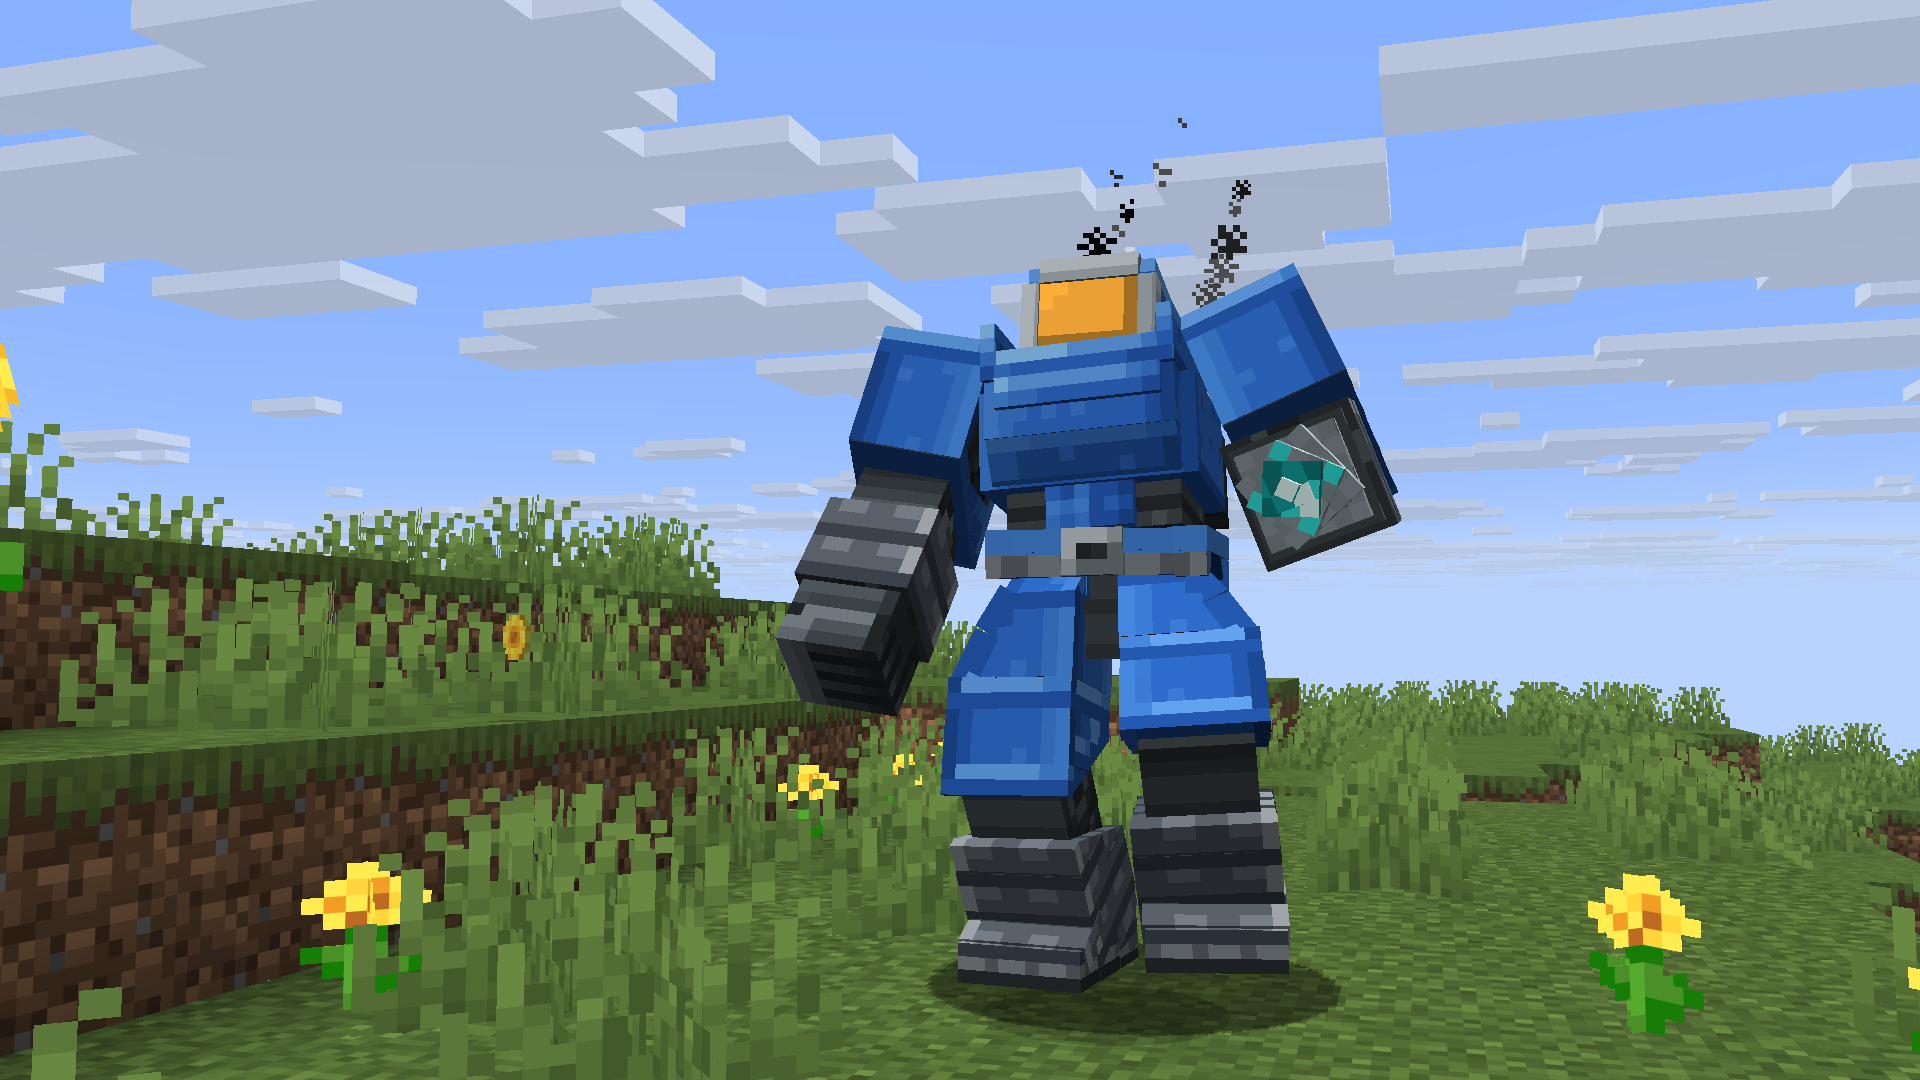
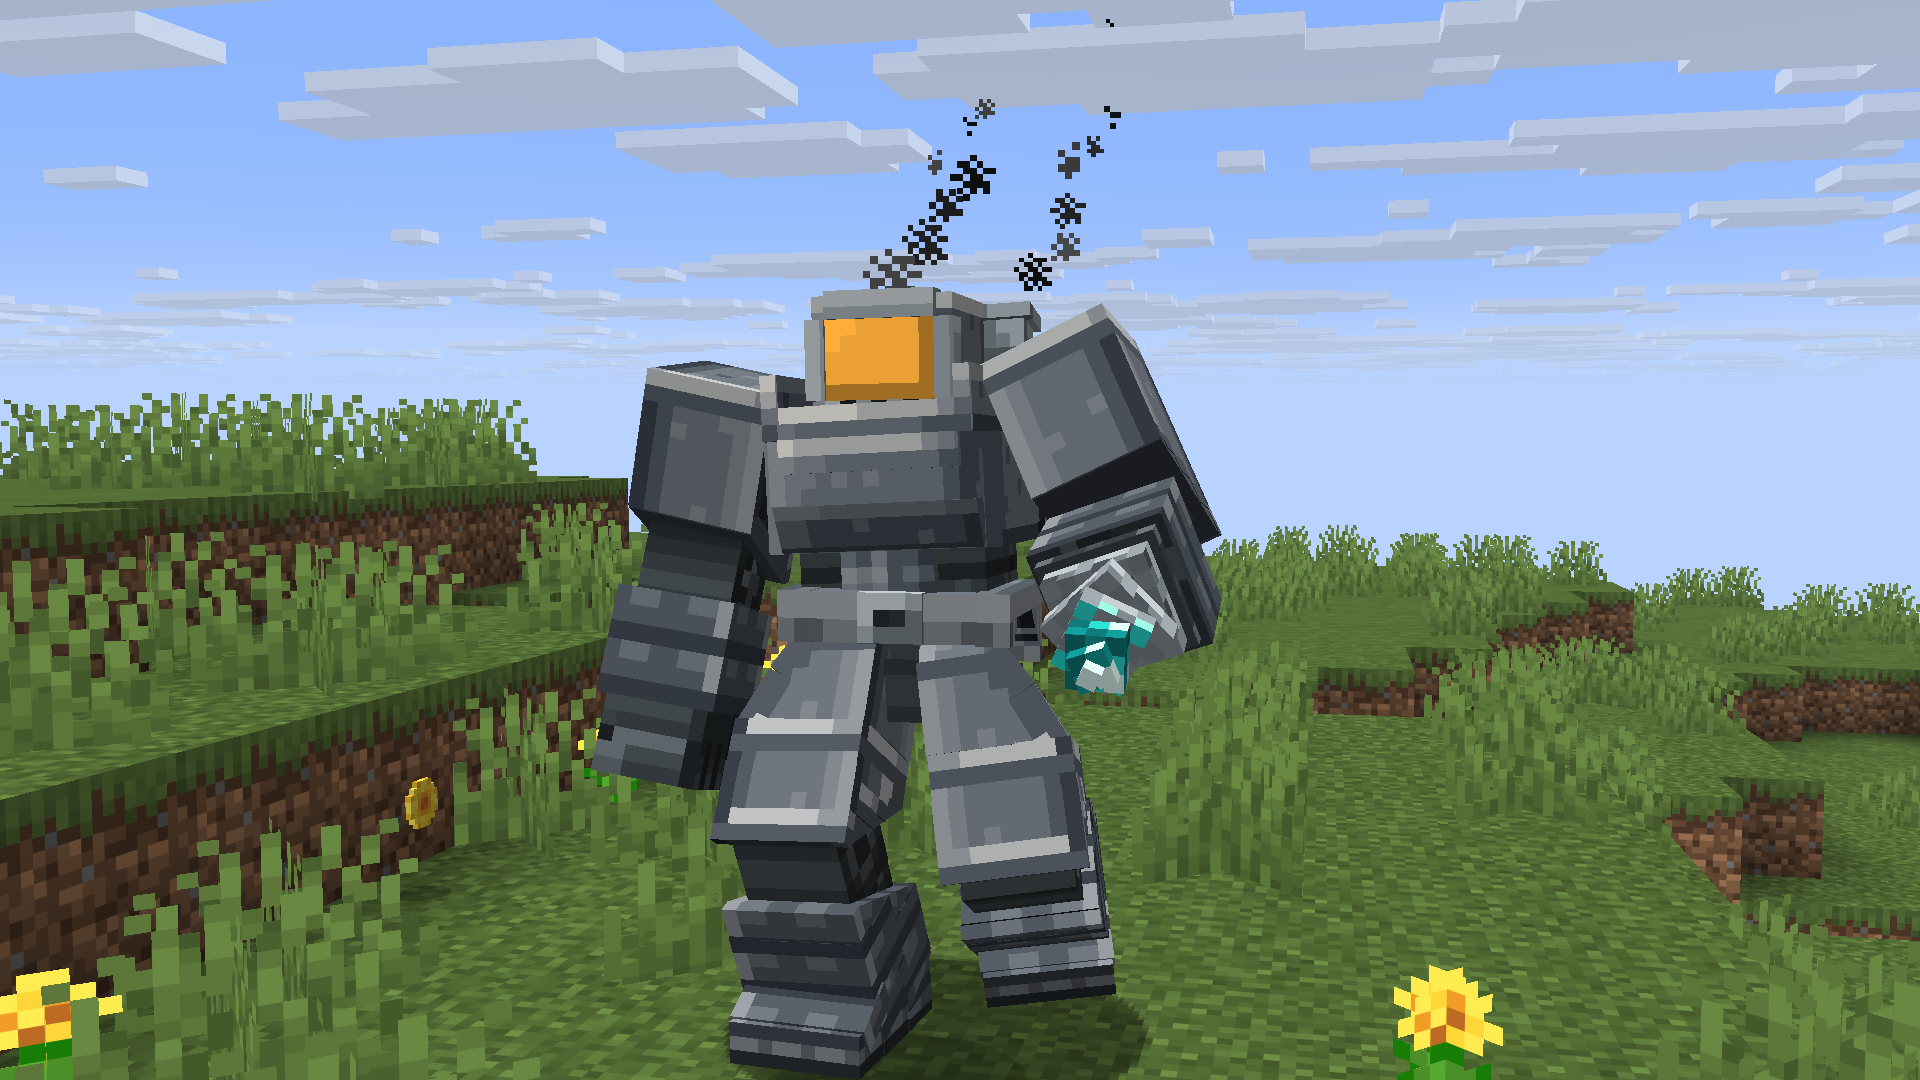
Gallery 1: bare steel suit with a drill, head-height camera, level view

diff --git a/src/main/java/dev/ajaczero/powerarmor/client/dev/ShowcaseScene.java b/src/main/java/dev/ajaczero/powerarmor/client/dev/ShowcaseScene.java
@@ -172,7 +172,7 @@ public final class ShowcaseScene {
                 // set with a null spot to search (findSpot), then copy the place from run/showcase.csv.
                 // a sunflower-plains hilltop: a mountain and the sea on the left, a village ahead
                 case 0 -> moveTo(mc, "walk", Biomes.SUNFLOWER_PLAINS, 6000, pin(739, 116, -659, 0),
-                        new Loadout(DyeColor.BLUE, ModItems.FIREBOX.get(), ModItems.DRILL.get()));
+                        new Loadout(null, ModItems.FIREBOX.get(), ModItems.DRILL.get()));
                 // plains below a village, looking west into the sunset (yaw 90 looks -X)
                 case 1 -> moveTo(mc, "dusk", Biomes.PLAINS, DUSK, pin(595, 70, -812, 90),
                         new Loadout(DyeColor.RED, ModItems.FIREBOX.get(), ModItems.CHAINGUN.get()));
@@ -219,14 +219,15 @@ public final class ShowcaseScene {
     private static void walk(Minecraft mc, int k) {
         var o = mc.options;
         // F5's front view turns the pilot's view round: looking up puts its camera higher, looking down at the suit
-        if (k == -SETTLE) { o.setCameraType(CameraType.THIRD_PERSON_FRONT); DevUtil.hideGui(mc, true); yaw = setYaw; pitch = -15; levelPath(mc); }
+        if (k == -SETTLE) { o.setCameraType(CameraType.THIRD_PERSON_FRONT); DevUtil.hideGui(mc, true); yaw = setYaw; pitch = 0; levelPath(mc); }
         if (k == 0) walk = true;
         if (k >= 8 && k <= 28 && k % 4 == 0) shot(mc, "front_walk", k);
         // a still camera standing in the suit's path, as a friend would: the suit walks up to it. (A scripted camera
         // stops the client sending the pilot's moves to the server; the client still walks the suit, for a few seconds.)
-        // close and low with a narrow lens, so the suit fills the frame (the lens is put back for the cockpit shots)
-        if (k == 30) { pathCamera(mc, 7.0, 1.4); mc.options.fov().set(40); }
-        if (k >= 34 && k <= 50 && k % 4 == 0) shot(mc, "front_close", k);
+        // head height, a little to the tool side, a narrow lens: the suit fills the frame and looks level, not up at the sky
+        // (a low camera tilted the visor up). Bare steel for this set.
+        if (k == 30) { angleCamera(mc, 6.5, 1.5, 2.4, 2.0); mc.options.fov().set(38); }
+        if (k >= 32 && k <= 38 && k % 2 == 0) shot(mc, "front_close", k);
         if (k == 52) { o.fov().set(fov); mc.setCameraEntity(mc.player); o.setCameraType(CameraType.FIRST_PERSON); DevUtil.hideGui(mc, false); yaw = setYaw - 25; pitch = 3; } // the mountain and the sea
         if (k >= 62 && k <= 78 && k % 4 == 0) shot(mc, "cockpit", k);
         if (k == 80) { yaw = setYaw; o.setCameraType(CameraType.THIRD_PERSON_BACK); DevUtil.hideGui(mc, true); pitch = 12; }
@@ -959,6 +960,16 @@ public final class ShowcaseScene {
                 player.startRiding(suit, true, true);
             }
         });
+    }
+
+    /** A still camera {@code ahead} blocks in front of the suit, {@code side} to its tool side, {@code up} high, looking at a point {@code lookY} up the suit. */
+    private static void angleCamera(Minecraft mc, double ahead, double side, double up, double lookY) {
+        if (!(mc.player.getVehicle() instanceof PowerArmorEntity suit)) {
+            return;
+        }
+        Vec3 forward = forward(), left = new Vec3(forward.z, 0, -forward.x);
+        Vec3 at = suit.position();
+        camera(mc, at.add(forward.scale(ahead)).add(left.scale(side)).add(0, up, 0), at.add(0, lookY, 0));
     }
 
     /** A still camera {@code ahead} blocks in front of where the suit is now (the client's copy), a little to its tool side, {@code up} blocks up. */
